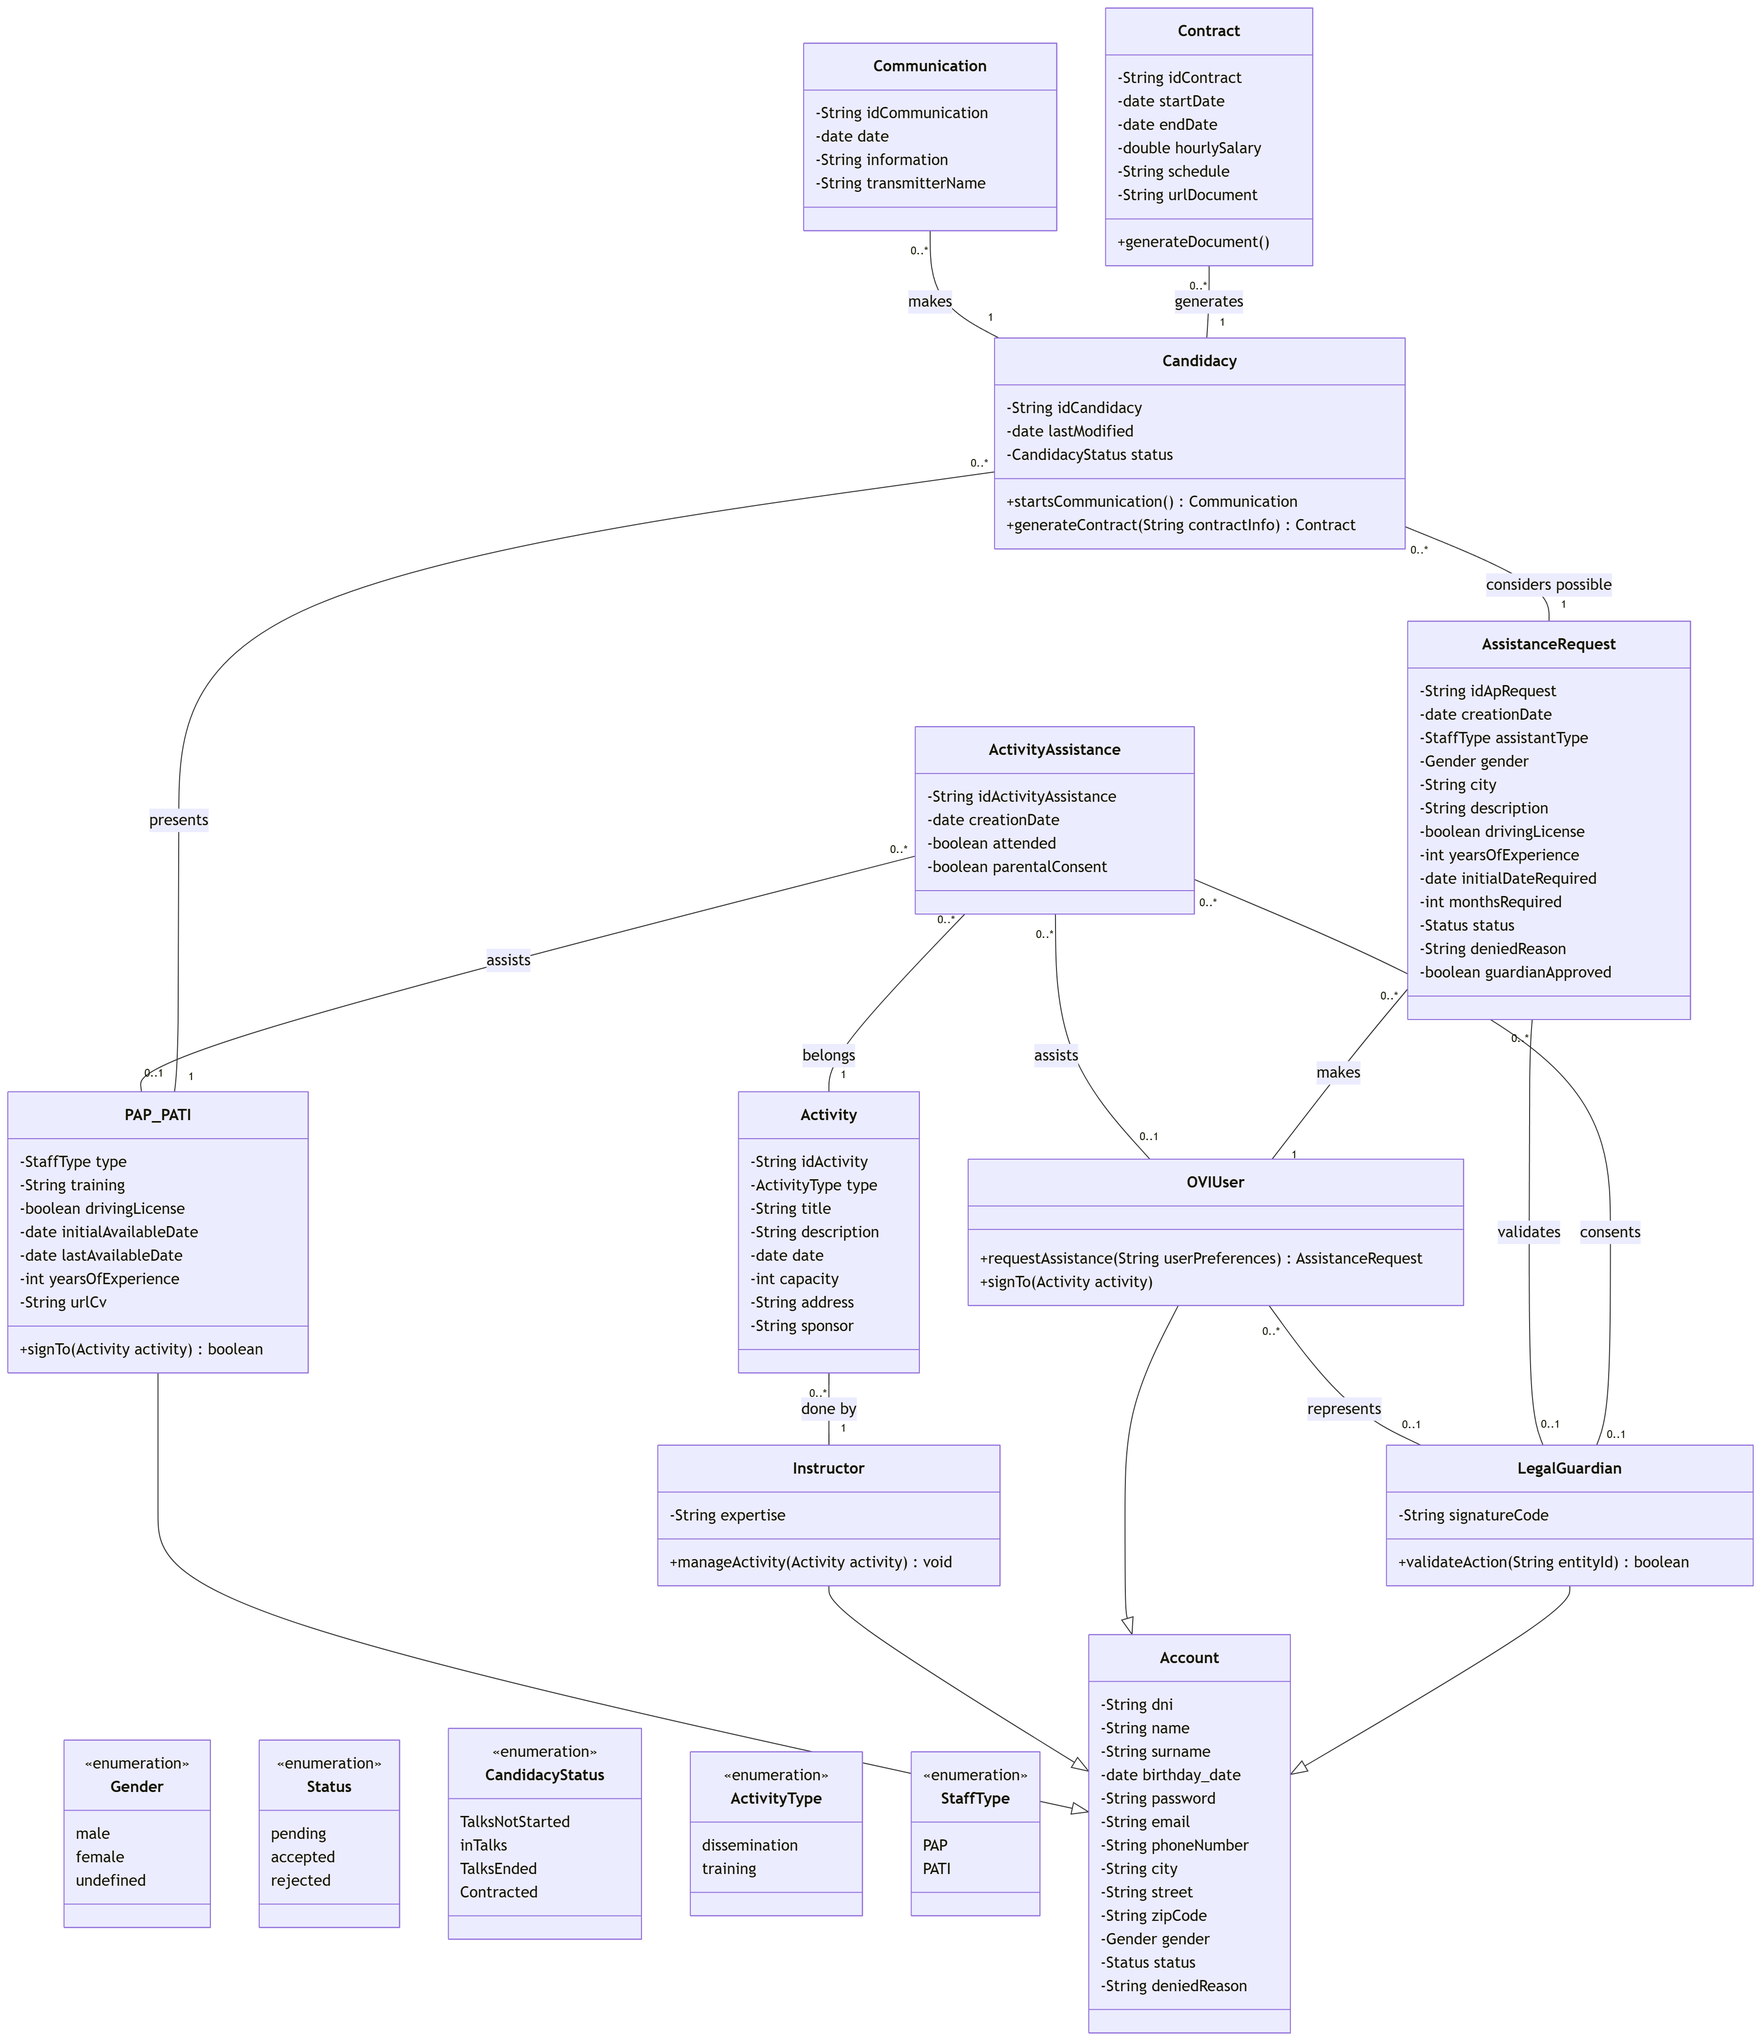
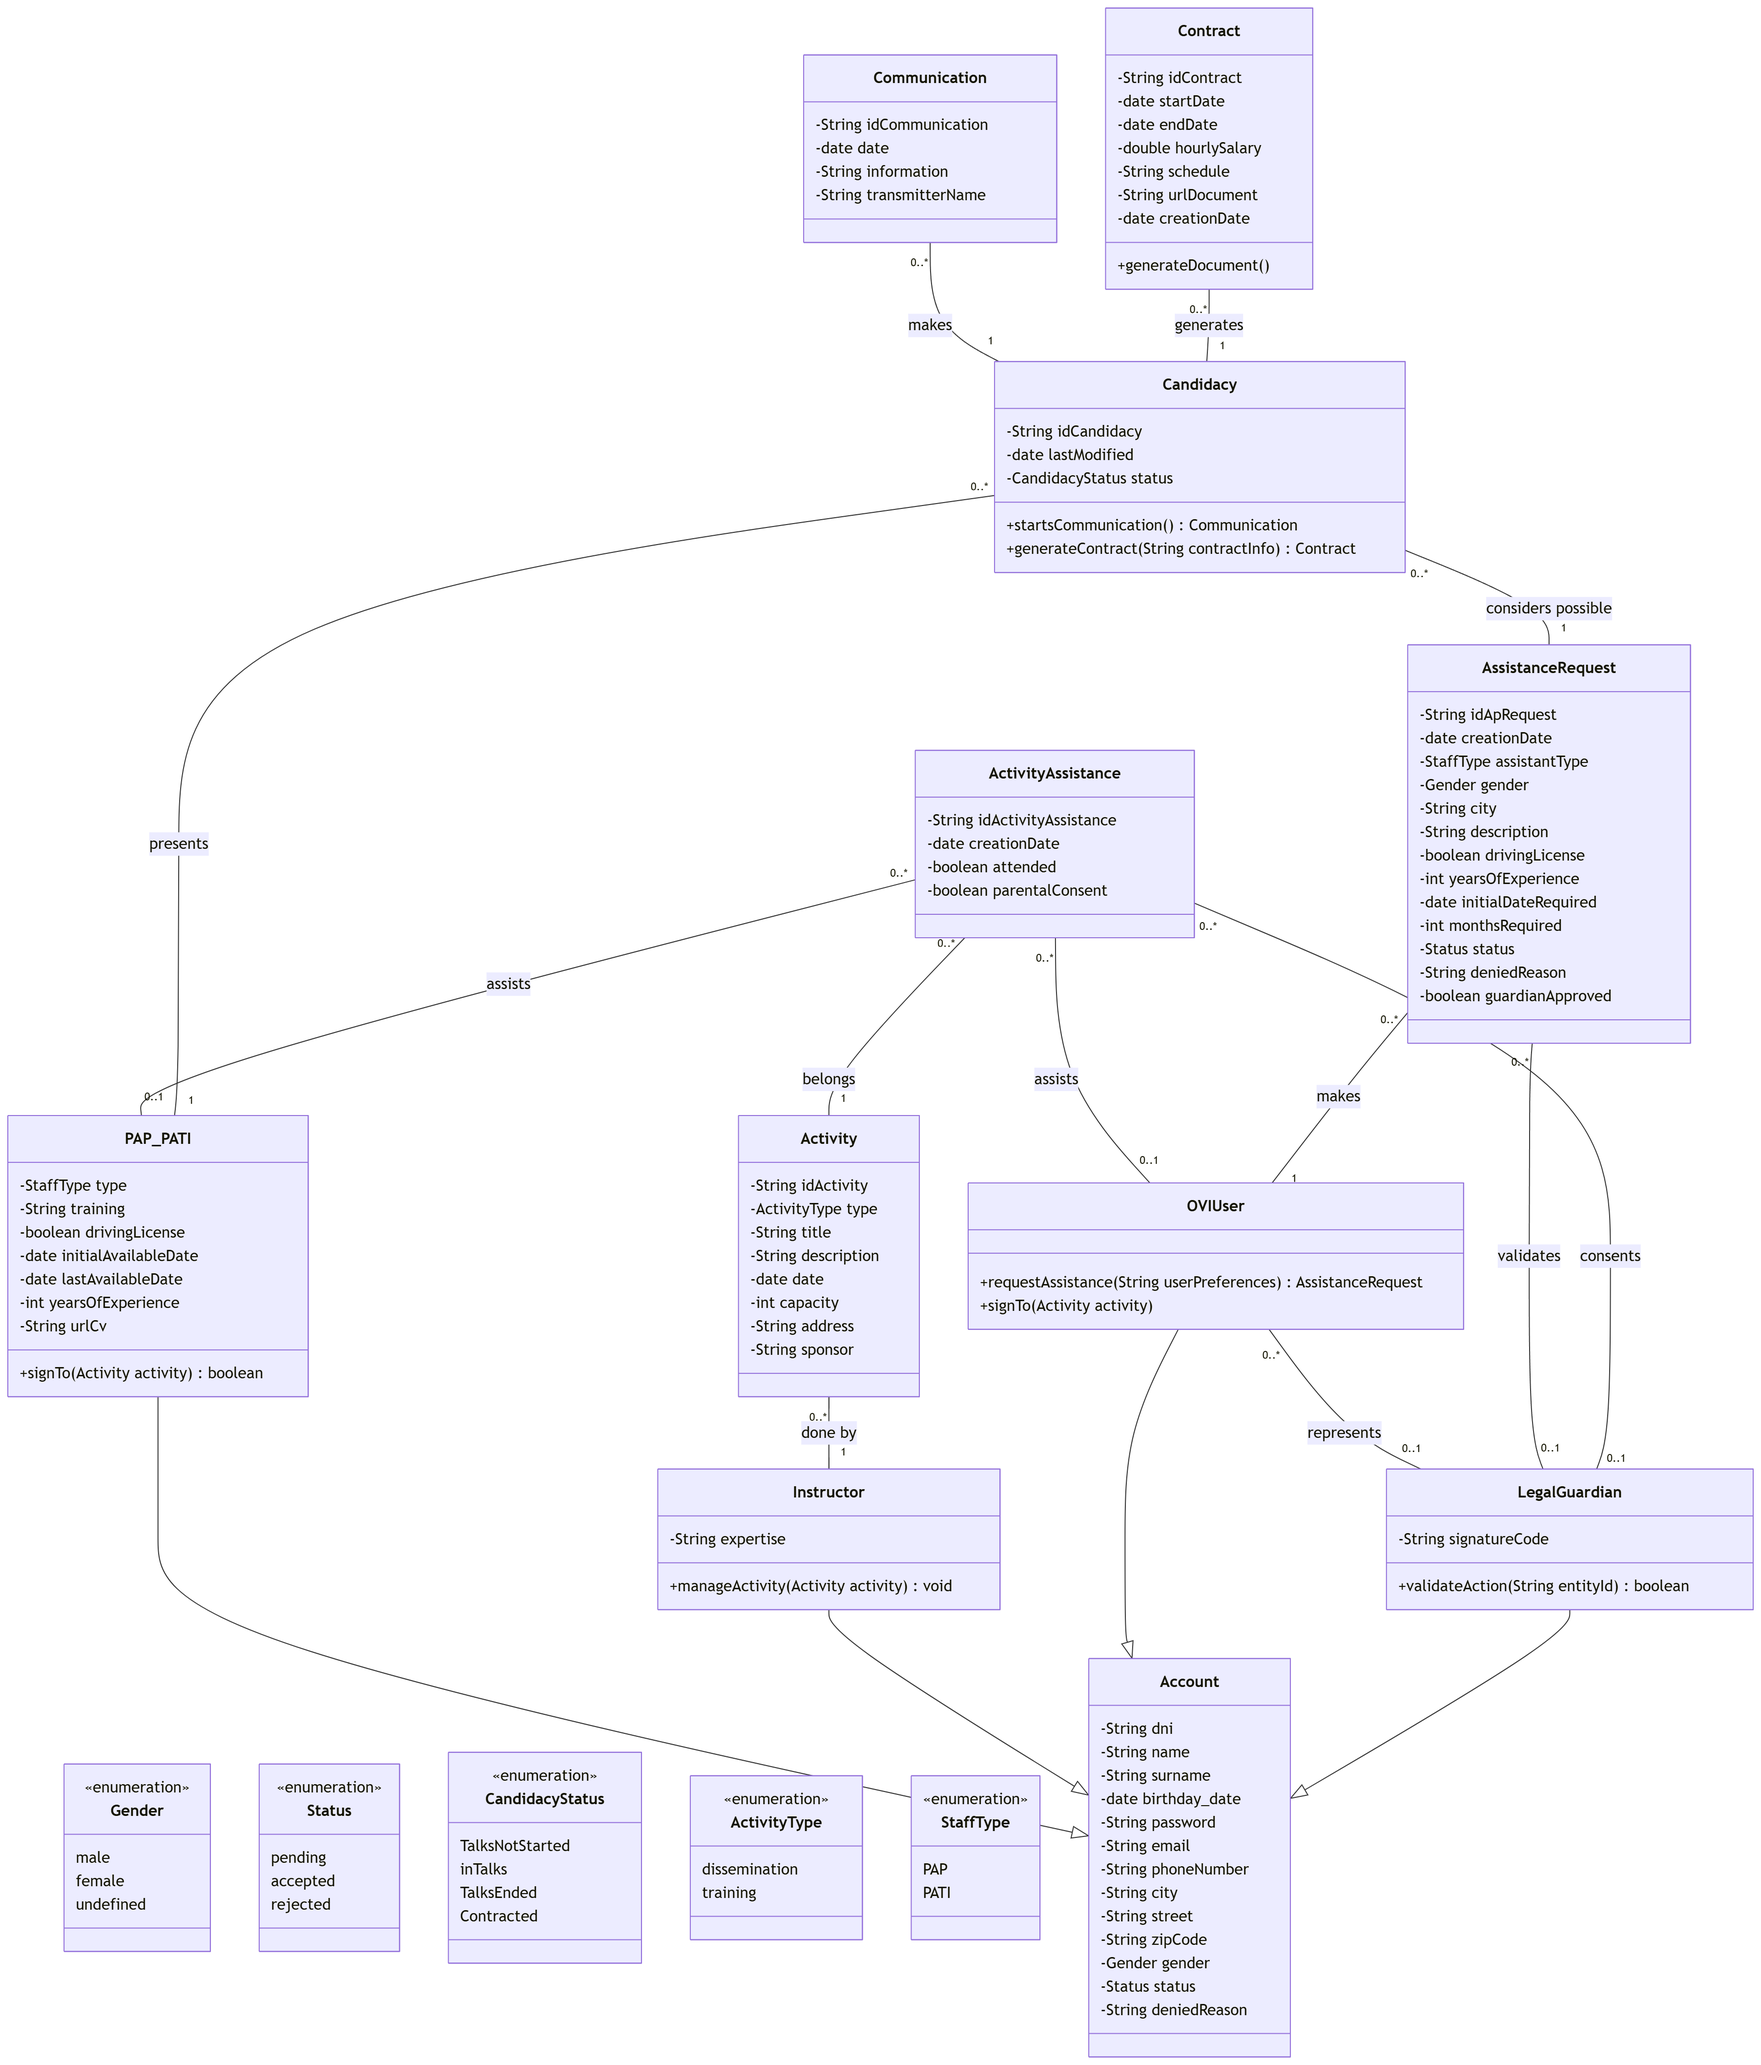
Agregado campo necesario en tabla Contract

diff --git a/SgOviProject/src/main/java/es/uji/ei1027/SgOviProject/model/Contract.java b/SgOviProject/src/main/java/es/uji/ei1027/SgOviProject/model/Contract.java
@@ -11,6 +11,7 @@ public class Contract {
     private double hourlySalary;
     private String schedule;
     private String urlDocument;
+    private LocalDate creationDate = LocalDate.now();
 
     public int getIdContract() {
         return idContract;
@@ -68,6 +69,14 @@ public class Contract {
         this.urlDocument = urlDocument;
     }
 
+    public LocalDate getCreationDate() {
+        return creationDate;
+    }
+
+    public void setCreationDate(LocalDate creationDate) {
+        this.creationDate = creationDate;
+    }
+
     @Override
     public String toString() {
         return "Contract{" +
@@ -78,6 +87,7 @@ public class Contract {
                 ", hourlySalary=" + hourlySalary +
                 ", schedule='" + schedule + '\'' +
                 ", urlDocument='" + urlDocument + '\'' +
+                ", creationDate=" + creationDate +
                 '}';
     }
 }

diff --git a/SgOviProject/src/main/java/es/uji/ei1027/SgOviProject/dao/ContractRowMapper.java b/SgOviProject/src/main/java/es/uji/ei1027/SgOviProject/dao/ContractRowMapper.java
@@ -19,6 +19,7 @@ public final class ContractRowMapper implements RowMapper<Contract> {
         contract.setHourlySalary(rs.getDouble("hourlySalary"));
         contract.setSchedule(rs.getString("schedule"));
         contract.setUrlDocument(rs.getString("urlDocument"));
+        contract.setCreationDate(rs.getObject("creationDate", LocalDate.class));
 
         return contract;
     }
